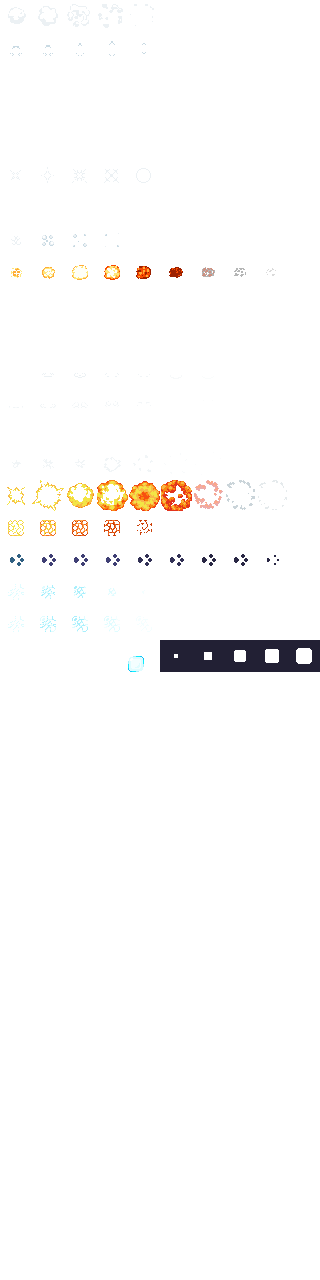
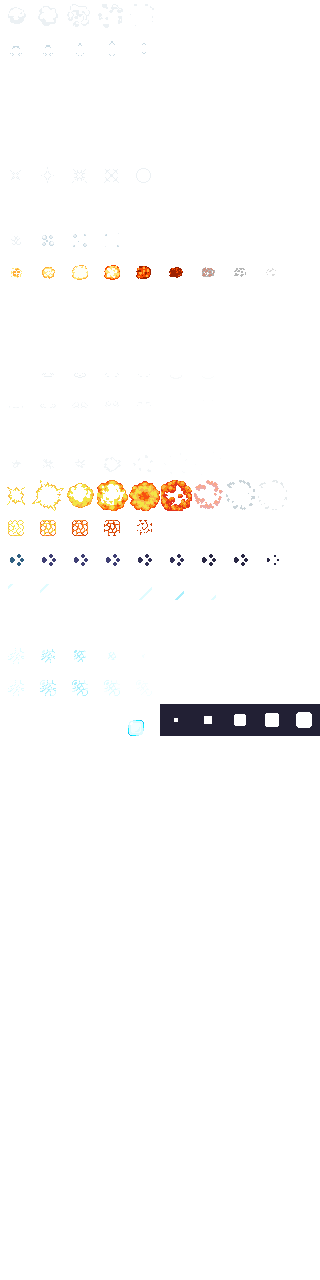
item improvements (WIP)

diff --git a/Leore/Objects/Level/Blocks/IceBlock.cs b/Leore/Objects/Level/Blocks/IceBlock.cs
@@ -10,6 +10,7 @@ using System.Linq;
 using System.Text;
 using System.Threading.Tasks;
 using SPG.Objects;
+using SPG.Util;
 
 namespace Leore.Objects.Level.Blocks
 {
@@ -21,10 +22,18 @@ namespace Leore.Objects.Level.Blocks
         private float hp;
         private float cooldown;
 
+        private int shimmerTimer;
+
         public IceBlock(float x, float y, Room room) : base(x, y, room, 6)
         {
             maxHp = HP;
             this.hp = HP;
+
+            BoundingBox = new RectF(-8, -8, 16, 16);
+
+            DrawOffset = new Vector2(8);
+            
+            shimmerTimer = RND.Int(2 * 60);
         }
 
         public override void Update(GameTime gameTime)
@@ -41,6 +50,18 @@ namespace Leore.Objects.Level.Blocks
                 hp = Math.Min(hp + .1f, maxHp);
                 regenDelay = 10;
             }
+
+            shimmerTimer = Math.Max(shimmerTimer - 1, 0);
+            if (shimmerTimer == 0)
+            {
+                var eff = new SingularEffect(Center.X, Center.Y, 18);
+                eff.Depth = Depth + .0001f;
+
+                shimmerTimer = 60 + RND.Int(2 * 60);
+            }
+
+            Scale = new Vector2(Math.Min(Scale.X + .02f, 1));
+            //Angle *= .9f;
 
             if (hp == 0)
             {
@@ -59,17 +80,19 @@ namespace Leore.Objects.Level.Blocks
             
             if (hp <= dmg)
             {
-                new DestroyEmitter(X + 8, Y + 8, 4);                
+                new DestroyEmitter(X, Y, 4);                
             }
             else
             {
                 if (true)
                 {
-                    var eff = new SingularEffect(Center.X, Center.Y, 18);
-                    eff.Depth = Depth + .0001f;
+                    Scale = new Vector2(.9f);
+                    //Angle = (float)MathUtil.DegToRad(-6 + RND.Int(12));
+                    /*var eff = new SingularEffect(Center.X, Center.Y, 19);
+                    eff.Depth = Depth + .0001f;*/
                 }
             }
-
+            
             hp = Math.Max(hp - dmg, 0);
 
             return true;
@@ -83,7 +106,7 @@ namespace Leore.Objects.Level.Blocks
             {
                 var alpha = hp / maxHp;
                 var col = new Color(Color, .5f - .5f * alpha);
-                sb.Draw(AssetManager.Particles[11], Position + new Vector2(8), null, col, Angle, new Vector2(8), Scale, SpriteEffects.None, Depth + .0001f);
+                sb.Draw(AssetManager.Particles[11], Position, null, col, Angle, new Vector2(8), Scale, SpriteEffects.None, Depth + .0001f);
             }
         }
     }

diff --git a/Leore/Objects/Projectiles/FireProjectile.cs b/Leore/Objects/Projectiles/FireProjectile.cs
@@ -280,7 +280,7 @@ namespace Leore.Objects.Projectiles
         }
     }
 
-    // ++++ Level: 2 & 3 ++++
+    // ++++ Level: 3 ++++
 
     public class FlameThrowerProjectile : FireProjectile
     {
@@ -290,6 +290,7 @@ namespace Leore.Objects.Projectiles
         public FlameThrowerProjectile(float x, float y) : base(x, y, SpellLevel.THREE)
         {
             Scale = Vector2.One;
+            light.Scale = new Vector2(.2f);
 
             AnimationTexture = AssetManager.Projectiles;
             SetAnimation(24, 28, .15f, false);
@@ -310,9 +311,8 @@ namespace Leore.Objects.Projectiles
 
             Angle = (float)MathUtil.VectorToAngle(new Vector2(XVel, YVel), true);
 
-            //Scale = new Vector2(Math.Min(Scale.X + .02f, .8f));
-
-            light.Scale = Scale;
+            light.Scale = new Vector2(Math.Min(light.Scale.X + .03f, .8f));
+            //light.Scale = Scale;
 
             //if (Math.Abs(XVel) < .1f)
             //    Destroy();

diff --git a/Leore/Main/RoomObjectLoader.cs b/Leore/Main/RoomObjectLoader.cs
@@ -228,7 +228,7 @@ namespace Leore.Main
                                 new FireBlock(i * Globals.T, j * Globals.T, room, (t.ID - 971 + 1)) { OriginalTextureID = t.ID };
                                 break;
                             case 964: // ice block
-                                new IceBlock(i * Globals.T, j * Globals.T, room) { Texture = GameManager.Current.Map.TileSet[t.ID] };
+                                new IceBlock(i * Globals.T + 8, j * Globals.T + 8, room) { Texture = GameManager.Current.Map.TileSet[t.ID] };
                                 break;
                             case 716: // enemy block
                                 new EnemyBlock(i * Globals.T, j * Globals.T, room);

diff --git a/Leore/Objects/Level/Obstacles/Obstacles.cs b/Leore/Objects/Level/Obstacles/Obstacles.cs
@@ -20,7 +20,7 @@ namespace Leore.Objects.Level.Obstacles
     {
         public ObstacleBlock(float x, float y, Room room) : base(x, y, room)
         {
-            BoundingBox = new RectF(-1f, -1f, 18, 18);            
+            BoundingBox = new RectF(-1f, -1f, 18, 20);            
         }
     }
 
